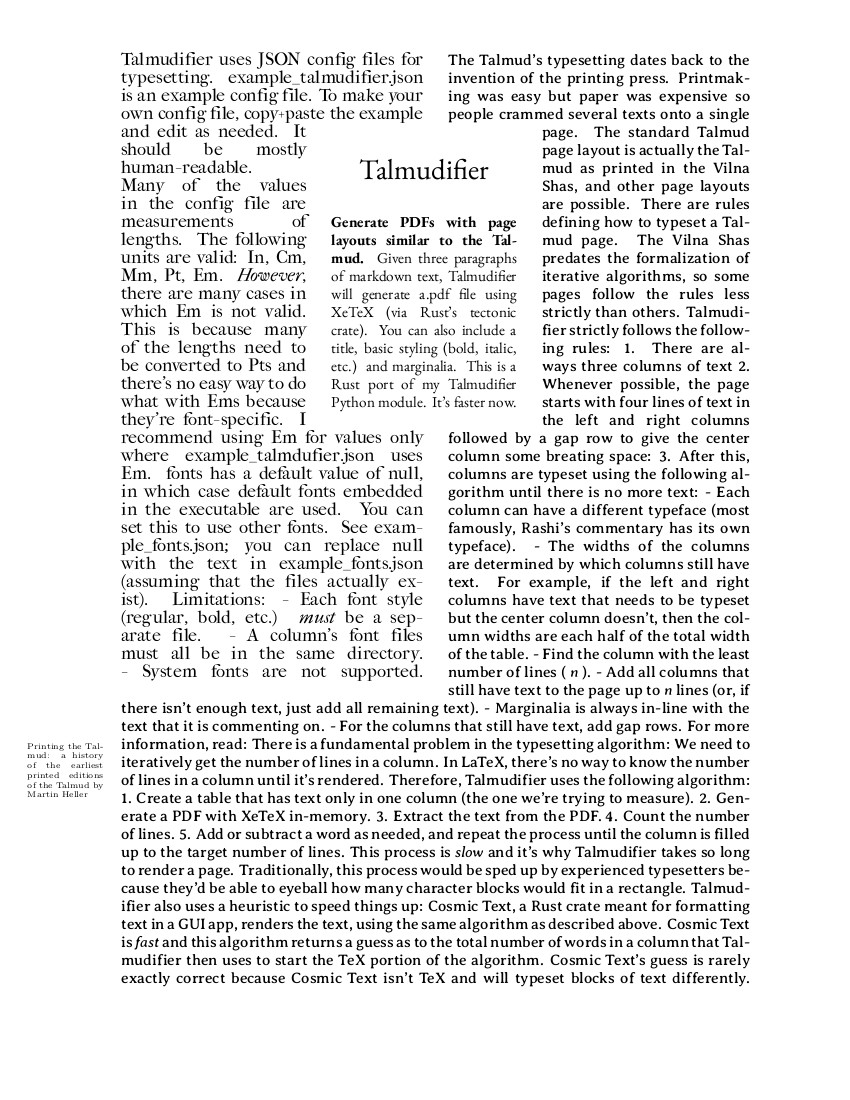
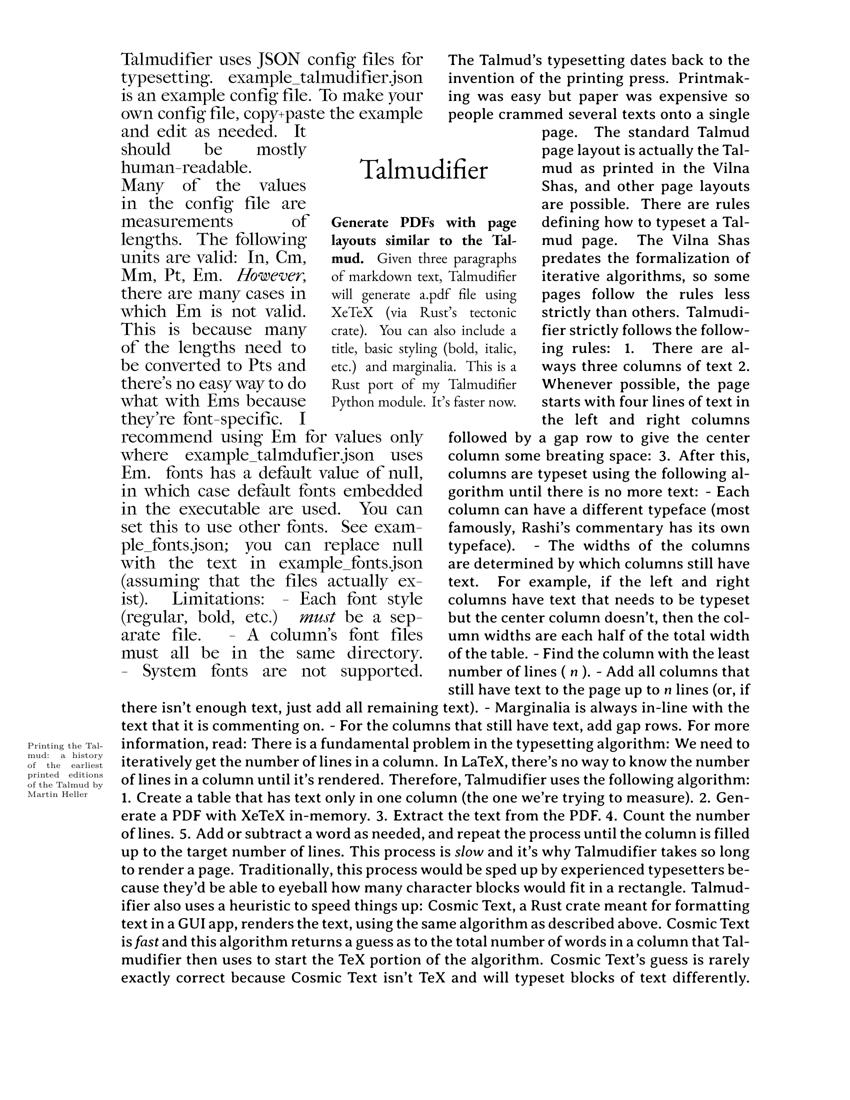
tests pass

diff --git a/src/font/fonts.rs b/src/font/fonts.rs
@@ -4,10 +4,10 @@ use serde::{Deserialize, Serialize};
 
 use crate::{
     error::Error,
-    prelude::{DefaultTexFonts, FontMetrics},
+    prelude::FontMetrics,
 };
 
-use super::{cosmic_fonts::CosmicFonts, tex_fonts::TexFonts, Font, DEFAULT_ROOT_DIRECTORY};
+use super::{cosmic_fonts::CosmicFonts, default_tex_fonts::DefaultTexFonts, tex_fonts::TexFonts, Font, DEFAULT_ROOT_DIRECTORY};
 
 /// Fonts for the left, center, and right columns.
 #[derive(Deserialize, Serialize)]
@@ -75,19 +75,5 @@ impl Default for Fonts {
             #[cfg(feature = "default-fonts")]
             default: true,
         }
-    }
-}
-
-#[cfg(test)]
-mod tests {
-    use std::fs::read;
-
-    use serde_json::from_slice;
-
-    use super::Fonts;
-
-    #[test]
-    fn test_default_fonts() {
-        from_slice::<Fonts>(&read("example_fonts.json").unwrap()).unwrap();
     }
 }

diff --git a/doc/generate.py b/doc/generate.py
@@ -1,3 +1,5 @@
+from pdf2image import convert_from_path
+
 from pathlib import Path
 import re
 
@@ -51,3 +53,7 @@ output_directory.joinpath("left.md").write_text(left.strip())
 # Right.
 right = to_daf(how, strip_code=False)
 output_directory.joinpath("right.md").write_text(right.strip())
+
+# Regenerate the daf image.
+images = convert_from_path("../out.pdf")
+images[0].resize((850, 1100)).save("../images/daf.jpg")

diff --git a/src/bin/example_config.rs b/src/bin/example_config.rs
@@ -10,10 +10,6 @@ fn main() {
     let talmudifier = Talmudifier::default();
     let s = to_string_pretty(&talmudifier).unwrap();
     write("example_talmudifier.json", s).unwrap();
-
-    let fonts = Fonts::default();
-    let s = to_string_pretty(&fonts).unwrap();
-    write("example_fonts.json", s).unwrap();
 }
 
 #[cfg(not(feature = "default-fonts"))]

diff --git a/src/font/mod.rs b/src/font/mod.rs
@@ -3,7 +3,7 @@ pub mod cosmic_fonts;
 #[cfg(feature = "default-fonts")]
 mod default_fonts;
 #[cfg(feature = "default-fonts")]
-pub(crate) mod default_tex_fonts;
+pub mod default_tex_fonts;
 pub mod font_metrics;
 pub mod font_paths;
 pub mod fonts;

diff --git a/example_text/left.md b/example_text/left.md
@@ -1,1 +1,1 @@
-Talmudifier uses JSON config files for typesetting. example_talmudifier.json is an example config file. To make your own config file, copy+paste the example and edit as needed. It should be mostly human-readable. Many of the values in the config file are measurements of lengths. The following units are valid: In, Cm, Mm, Pt, Em. *However*, there are many cases in which Em is not valid. This is because many of the lengths need to be converted to Pts and there's no easy way to do what with Ems because they're font-specific. I recommend using Em for values only where example_talmdufier.json uses Em. fonts has a default value of null, in which case default fonts embedded in the executable are used. You can set this to use other fonts. See example_fonts.json; you can replace null with the text in example_fonts.json (assuming that the files actually exist). Limitations: - Each font style (regular, bold, etc.) *must* be a separate file. - A column's font files must all be in the same directory. - System fonts are not supported.
+Talmudifier uses JSON config files for typesetting. example_talmudifier.json is an example config file. To make your own config file, copy+paste the example and edit as needed. It should be mostly human-readable. Many of the values in the config file are measurements of lengths. The following units are valid: In, Cm, Mm, Pt, Em. *However*, there are many cases in which Em is not valid. This is because many of the lengths need to be converted to Pts and there's no easy way to do what with Ems because they're font-specific. I recommend using Em for values only where example_talmdufier.json uses Em. You can also optionally set the per-column fonts. If you don't, and if you've included the default-features feature, default fonts will be used. Limitations: - Each font style (regular, bold, etc.) *must* be a separate file. - A column's font files must all be in the same directory. - System fonts are not supported.

diff --git a/README.md b/README.md
@@ -82,7 +82,7 @@ Many of the values in the config file are measurements of lengths. The following
 
 ### Fonts
 
-`"fonts"` has a default value of `null`, in which case default fonts embedded in the executable are used. You can set this to use other fonts. See `example_fonts.json`; you can replace `null` with the text in `example_fonts.json` (assuming that the files actually exist).
+You can also optionally set the per-column `"fonts"`. If you don't, and if you've included the `default-features` feature, default fonts will be used.
 
 Limitations:
 

diff --git a/doc/README_rs.md b/doc/README_rs.md
@@ -84,7 +84,7 @@ Many of the values in the config file are measurements of lengths. The following
 
 ### Fonts
 
-`"fonts"` has a default value of `null`, in which case default fonts embedded in the executable are used. You can set this to use other fonts. See `example_fonts.json`; you can replace `null` with the text in `example_fonts.json` (assuming that the files actually exist).
+You can also optionally set the per-column `"fonts"`. If you don't, and if you've included the `default-features` feature, default fonts will be used.
 
 Limitations:
 

diff --git a/doc/fonts.md b/doc/fonts.md
@@ -1,4 +1,4 @@
-You can also optionally set the per-column `"fonts"`. If you don't, and if you've included the `default-features` feature, default fonts will be used. See `example_fonts.json`; you can replace `null` with the text in `example_fonts.json` (assuming that the files actually exist).
+You can also optionally set the per-column `"fonts"`. If you don't, and if you've included the `default-features` feature, default fonts will be used.
 
 Limitations:
 
